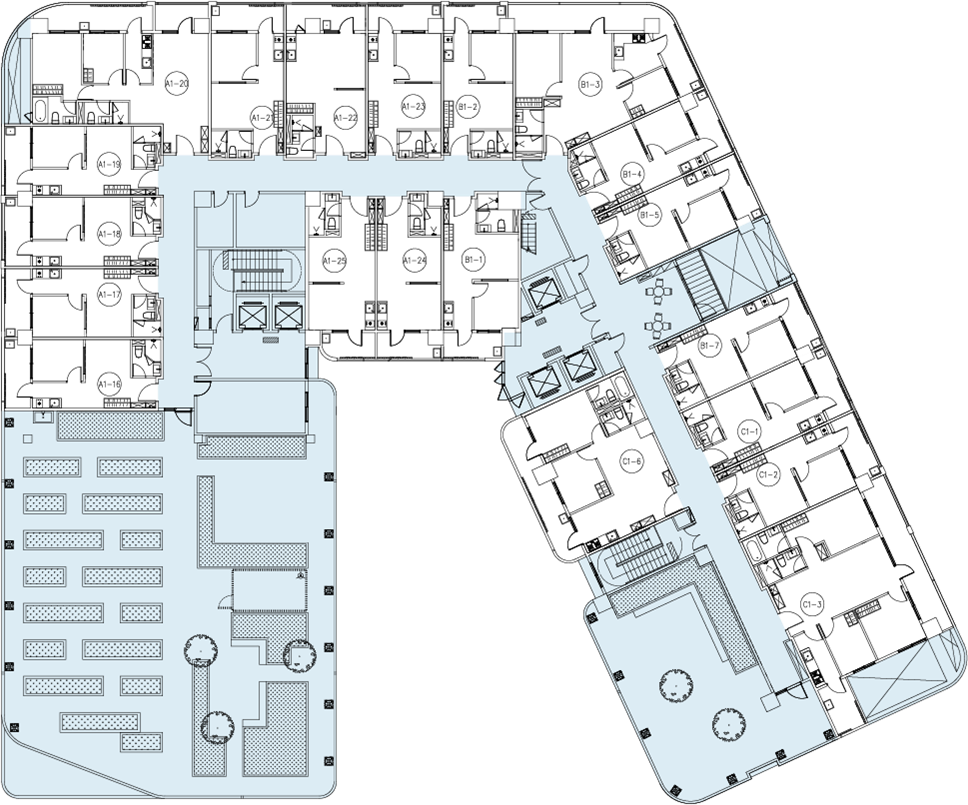
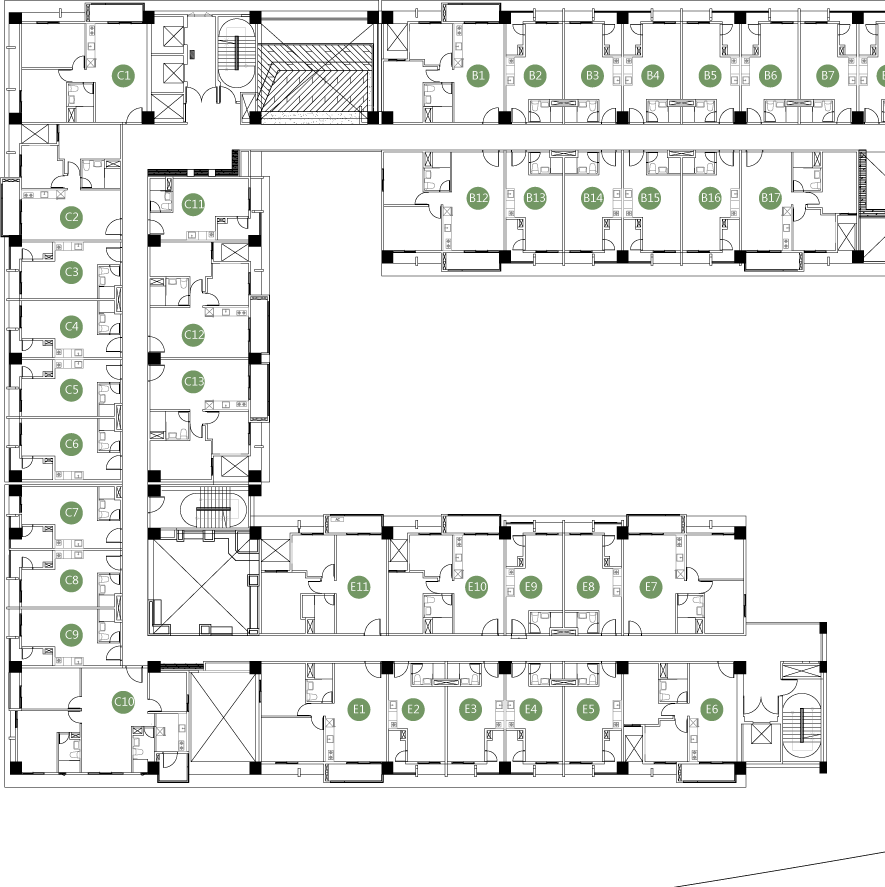
更改圖片格式

diff --git a/index.html b/index.html
@@ -10,7 +10,7 @@
 <body>
     <div class="zoom_outer">
         <div id="zoom">
-            <img src="./assets/img/floor.gif" alt="">
+            <img src="./assets/img/floor.png" alt="">
             <div class="canvas">
                 <svg height="100%" width="100%" version="1.1" viewBox="0 0 884.97 887.43">
                     <polygon fill="rgb(242, 180, 73)" fill-opacity="0.2" style="cursor: pointer;" points="143.82,12.05 143.82,2.55 84.04,2.55 84.04,12.05 8.08,12.05 8.08,123.91 150.52,123.91 150.52,12.05 
